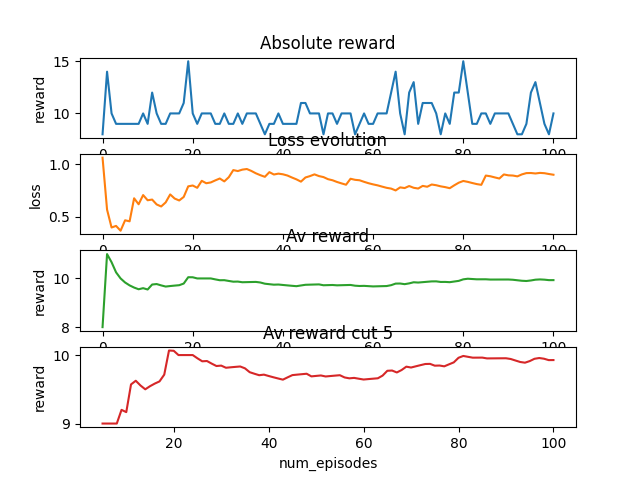
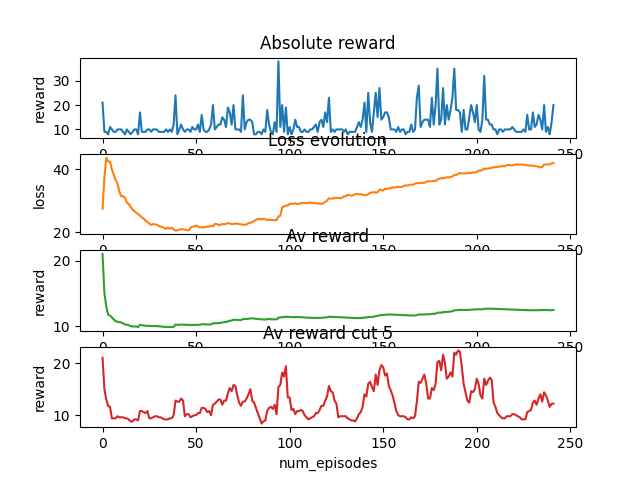
Do some test

diff --git a/ppo.py b/ppo.py
@@ -32,48 +32,45 @@ class DT_PPO:
         return action_dist
     
     def update(self):
-        l = []
-        for _ in range(self.epoch):
-            batch = self.rollout_buffer.get_batch()
-            state = batch['states']
-            old_action_prob = batch['actions']
-            reward = batch['rewards']
-            next_state = batch['next_states']
-            done = batch['dones']
-            rtg = batch['rtg']
-            timestep = batch['timestep']
-            action = batch['great_action']
+        batch = self.rollout_buffer.get_batch()
+        state = batch['states']
+        old_action_prob = batch['actions']
+        reward = batch['rewards']
+        next_state = batch['next_states']
+        done = batch['dones']
+        rtg = batch['rtg']
+        timestep = batch['timestep']
+        action = batch['great_action']
 
-            _, action_preds, return_preds, value = self.dt.forward(
+        _, action_preds, return_preds, value = self.dt.forward(
                 state,
                 old_action_prob,
                 None,
                 rtg,
                 timestep
             )
-            s_, _, _1, next_value = self.dt.forward(
+        s_, _, _1, next_value = self.dt.forward(
                 next_state,
                 action_preds,
                 None,
                 rtg,
                 timestep
             )
-            adventages = rtg + self.gamma * (1-done) * next_value - value
-            
-            ratio = (action_preds - old_action_prob).mean()
-            surr1 = ratio * adventages
-            surr2 = torch.clamp(ratio, 1 - self.eps_clip, 1+ self.eps_clip) * adventages
-            actor_loss = -torch.min(surr1, surr2).mean()
-            critic_loss = F.mse_loss(value, rtg + self.gamma * (1-done) * next_value.detach())
-            entropy = -torch.mean(-action_preds)#-torch.sum(action_preds * (action_preds + 1e-8), dim=1).mean()
-            loss = actor_loss + 0.01 * entropy + 0.5 *  critic_loss#actor_loss + 0.5 * critic_loss - 0.01 * entropy
+        advantages = rtg + self.gamma * (1-done) * next_value - value
+        ratio = (action_preds - old_action_prob).mean()
+        surr1 = ratio * advantages
+        surr2 = torch.clamp(ratio, 1 - self.eps_clip, 1+ self.eps_clip) * advantages
+        actor_loss = -torch.min(surr1, surr2).mean()
+        critic_loss = F.mse_loss(value, rtg + self.gamma * (1-done) * next_value.detach())
+        entropy = -torch.mean(-action_preds)#-torch.sum(action_preds * (action_preds + 1e-8), dim=1).mean()
+        loss = actor_loss + 0.5 * entropy + 0.6 *  critic_loss#actor_loss + 0.5 * critic_loss - 0.01 * entropy            
+        self.optimizer.zero_grad()
+        loss.backward()
+        self.optimizer.step()
 
-            self.optimizer.zero_grad()
-            loss.backward()
-            self.optimizer.step()
-            l.append(loss.item())
+        torch.nn.utils.clip_grad_norm_(self.dt.parameters(), max_norm=0.5)
 
-        return np.mean(l)
+        return loss.item()
     
     
     def save(self, path):
@@ -128,7 +125,7 @@ class DT_PPO:
                 rewards.append(reward.squeeze(2)[0][-1].item())
                 i += 1
                 if i % (timesteps // 10) == 0: 
-                    print(f'timestep : {i}, reward_mean_sum : {np.mean(r[5:])}, loss : {loss}')
+                    print(f'timestep : {i}, reward_mean_sum : {np.mean(r[-2:])}, loss : {loss}')
                 f.update(1)
                 if done:
                     env.reset()
@@ -136,28 +133,27 @@ class DT_PPO:
                 
             r.append(np.sum(rewards))
             r_.append(np.mean(r))
-            r__.append(np.mean(r[5:]))
+            r__.append(np.mean(r[-5:]))
             l.append(np.mean(losses))
 
         return r, l, r_, r__
 
-"""
 
+'''
 import gym
 
-ENV = 'LunarLander-v2'
+ENV = 'CartPole-v1'
 env = gym.make(ENV)
 state_dim = env.observation_space.shape[0]
 action_dim = env.action_space.n
 
-LEN_EP = int(5e4)
+LEN_EP = int(1e4)
 
 env.close()
 
 
-agent = DT_PPO(state_dim=state_dim, action_dim=action_dim, hidden_size=48, clip=0.3, epoch=1, gamma=0.9)
-agent.epoch = 1
-r, l, r_, r__ = agent.Learn(LEN_EP, ENV, notebook=False,reward_scale=1e-2)
+agent = DT_PPO(state_dim=state_dim, action_dim=action_dim, hidden_size=24, clip=0.3, epoch=1, gamma=0.9)
+r, l, r_, r__ = agent.Learn(LEN_EP, ENV, notebook=False,reward_scale=1e-1)
 
 L = len(r)
 
@@ -179,4 +175,4 @@ axs[3].plot(range(L), r__, 'tab:red')
 plt.show()
 
 #agent.save('bin')
-"""
+'''

diff --git a/decision_transformer.py b/decision_transformer.py
@@ -409,7 +409,6 @@ class DecisionTransformer(TrajectoryModel):
 # ! We had to add the rollout buffer method
 
 '''
-
 import gym
 
 LEN_EP = 400
